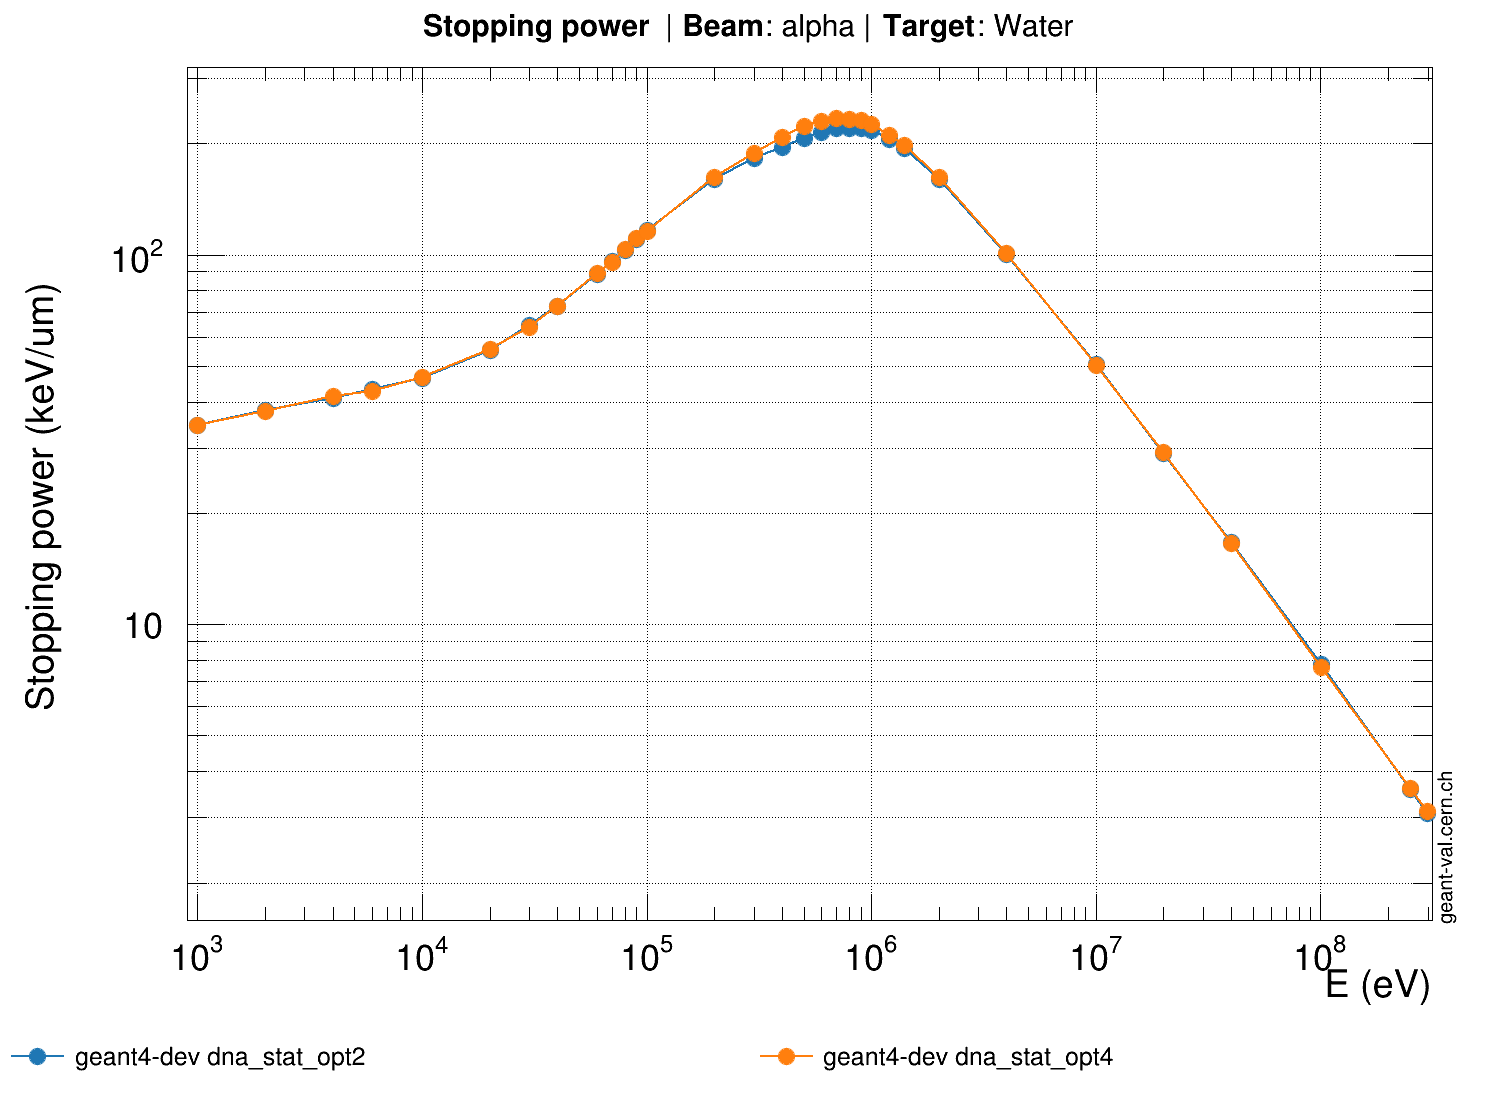
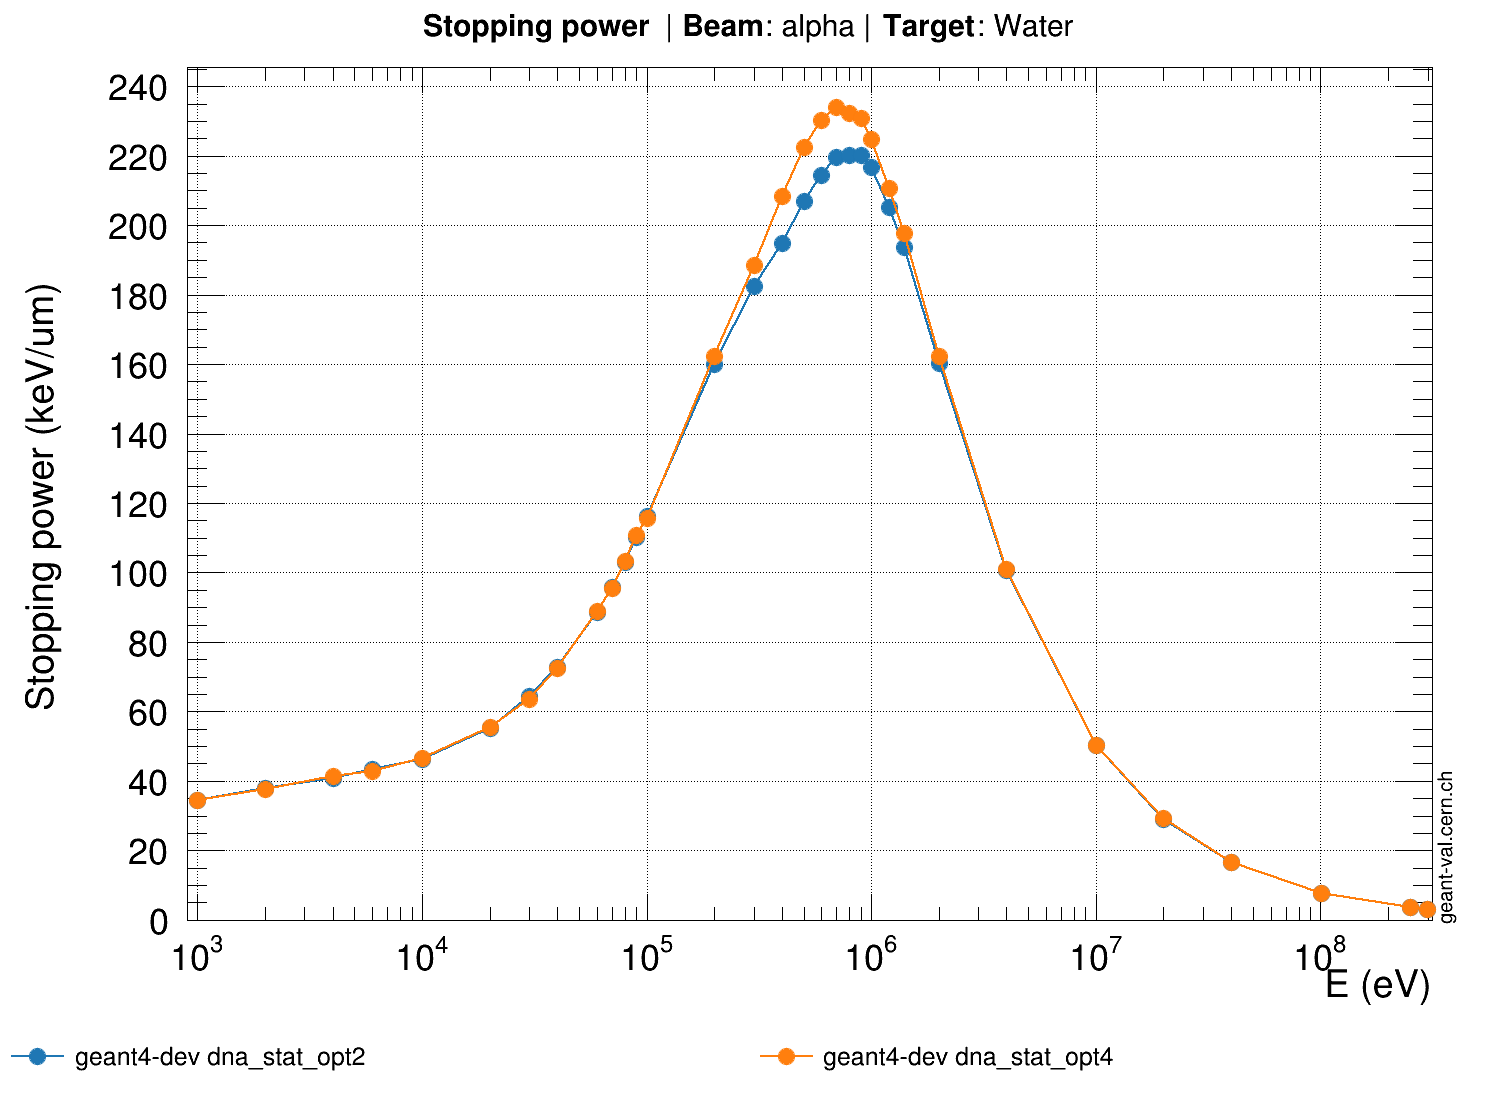
spower/alpha.conf/geant4-dev : dim. juin  4 21:04:54 CEST 2023

diff --git a/assets/OUTPUTJSON/geant4/geant4-dev/x86_64/spower/alpha.conf.c b/assets/OUTPUTJSON/geant4/geant4-dev/x86_64/spower/alpha.conf.c
@@ -430,3 +430,291 @@ double gvp_id-1_yerrors[32] = {
   0,
   0
 };
+// Tool:               GEANT4
+// Version:            geant4-dev
+// Model:              dna_stat_opt2
+// Observable:         stopping power
+// Target:             Water
+// Beam Particle:      alpha
+// Secondary Particle: None
+
+double gvp_id-1_x[32] = {
+  1000,
+  2000,
+  4000,
+  6000,
+  10000,
+  20000,
+  30000,
+  40000,
+  60000,
+  70000,
+  80000,
+  90000,
+  100000,
+  200000,
+  300000,
+  400000,
+  500000,
+  600000,
+  700000,
+  800000,
+  900000,
+  1e+06,
+  1.2e+06,
+  1.4e+06,
+  2e+06,
+  4e+06,
+  1e+07,
+  2e+07,
+  4e+07,
+  1.01e+08,
+  2.5e+08,
+  2.99e+08
+};
+double gvp_id-1_y[32] = {
+  34.5364,
+  37.9802,
+  40.9466,
+  43.3341,
+  46.1965,
+  55.1389,
+  64.4312,
+  72.7098,
+  88.5288,
+  95.9382,
+  103.062,
+  110.182,
+  116.229,
+  160.04,
+  182.455,
+  194.758,
+  206.82,
+  214.435,
+  219.654,
+  220.287,
+  220.098,
+  216.874,
+  205.349,
+  193.58,
+  160.39,
+  100.582,
+  50.4587,
+  29.0682,
+  16.6739,
+  7.7803,
+  3.57788,
+  3.07791
+};
+double gvp_id-1_xerrors[32] = {
+  0,
+  0,
+  0,
+  0,
+  0,
+  0,
+  0,
+  0,
+  0,
+  0,
+  0,
+  0,
+  0,
+  0,
+  0,
+  0,
+  0,
+  0,
+  0,
+  0,
+  0,
+  0,
+  0,
+  0,
+  0,
+  0,
+  0,
+  0,
+  0,
+  0,
+  0,
+  0
+};
+double gvp_id-1_yerrors[32] = {
+  0,
+  0,
+  0,
+  0,
+  0,
+  0,
+  0,
+  0,
+  0,
+  0,
+  0,
+  0,
+  0,
+  0,
+  0,
+  0,
+  0,
+  0,
+  0,
+  0,
+  0,
+  0,
+  0,
+  0,
+  0,
+  0,
+  0,
+  0,
+  0,
+  0,
+  0,
+  0
+};
+// Tool:               GEANT4
+// Version:            geant4-dev
+// Model:              dna_stat_opt4
+// Observable:         stopping power
+// Target:             Water
+// Beam Particle:      alpha
+// Secondary Particle: None
+
+double gvp_id-1_x[32] = {
+  1000,
+  2000,
+  4000,
+  6000,
+  10000,
+  20000,
+  30000,
+  40000,
+  60000,
+  70000,
+  80000,
+  90000,
+  100000,
+  200000,
+  300000,
+  400000,
+  500000,
+  600000,
+  700000,
+  800000,
+  900000,
+  1e+06,
+  1.2e+06,
+  1.4e+06,
+  2e+06,
+  4e+06,
+  1e+07,
+  2e+07,
+  4e+07,
+  1.01e+08,
+  2.5e+08,
+  2.99e+08
+};
+double gvp_id-1_y[32] = {
+  34.5772,
+  37.698,
+  41.3434,
+  42.7933,
+  46.6023,
+  55.5736,
+  63.5463,
+  72.3514,
+  89.0047,
+  95.5218,
+  103.346,
+  110.651,
+  115.691,
+  162.183,
+  188.624,
+  208.505,
+  222.489,
+  230.289,
+  234.062,
+  232.387,
+  230.897,
+  224.77,
+  210.577,
+  197.74,
+  162.354,
+  100.898,
+  50.2785,
+  29.1779,
+  16.5488,
+  7.67027,
+  3.59953,
+  3.11579
+};
+double gvp_id-1_xerrors[32] = {
+  0,
+  0,
+  0,
+  0,
+  0,
+  0,
+  0,
+  0,
+  0,
+  0,
+  0,
+  0,
+  0,
+  0,
+  0,
+  0,
+  0,
+  0,
+  0,
+  0,
+  0,
+  0,
+  0,
+  0,
+  0,
+  0,
+  0,
+  0,
+  0,
+  0,
+  0,
+  0
+};
+double gvp_id-1_yerrors[32] = {
+  0,
+  0,
+  0,
+  0,
+  0,
+  0,
+  0,
+  0,
+  0,
+  0,
+  0,
+  0,
+  0,
+  0,
+  0,
+  0,
+  0,
+  0,
+  0,
+  0,
+  0,
+  0,
+  0,
+  0,
+  0,
+  0,
+  0,
+  0,
+  0,
+  0,
+  0,
+  0
+};
